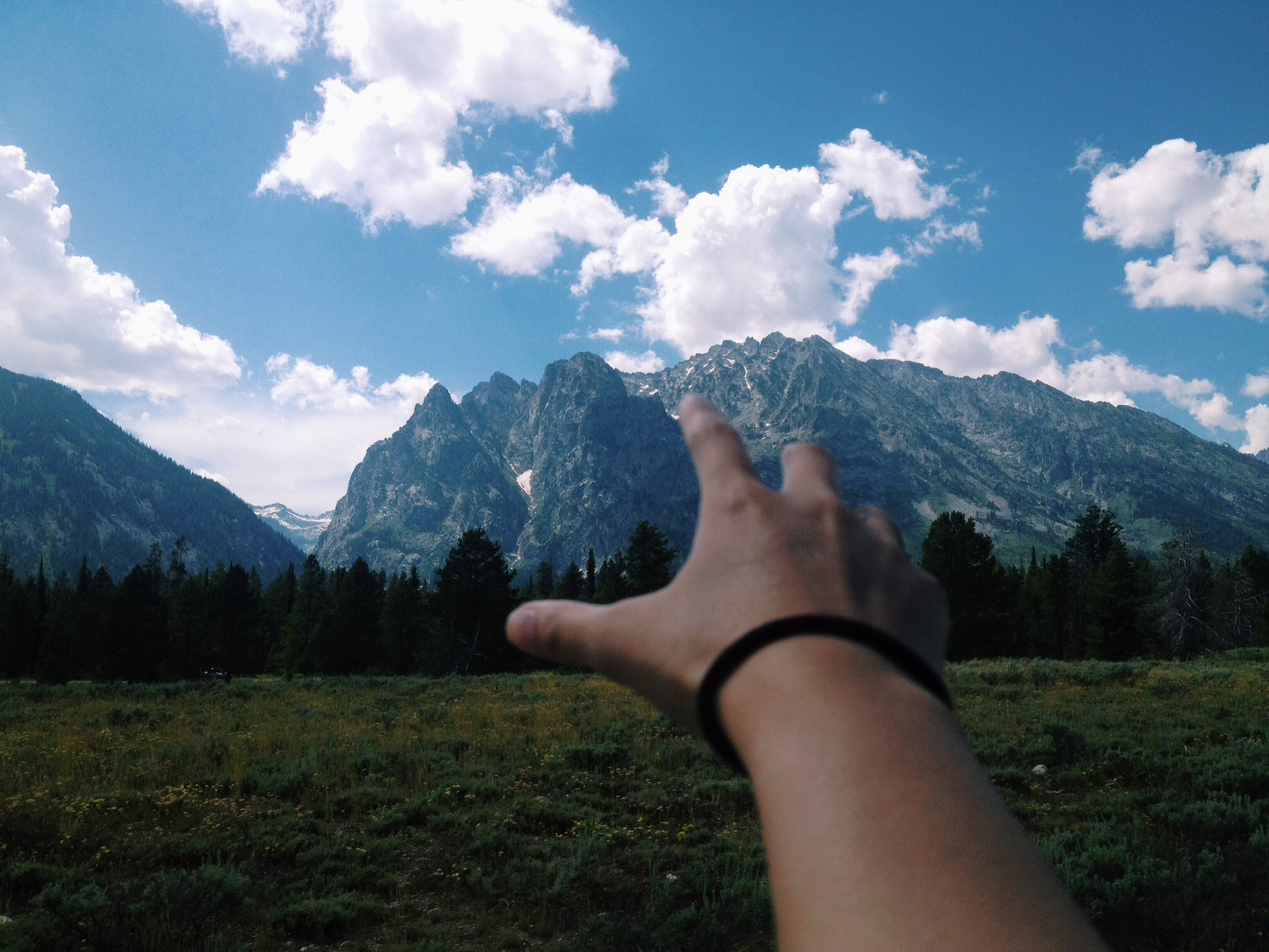
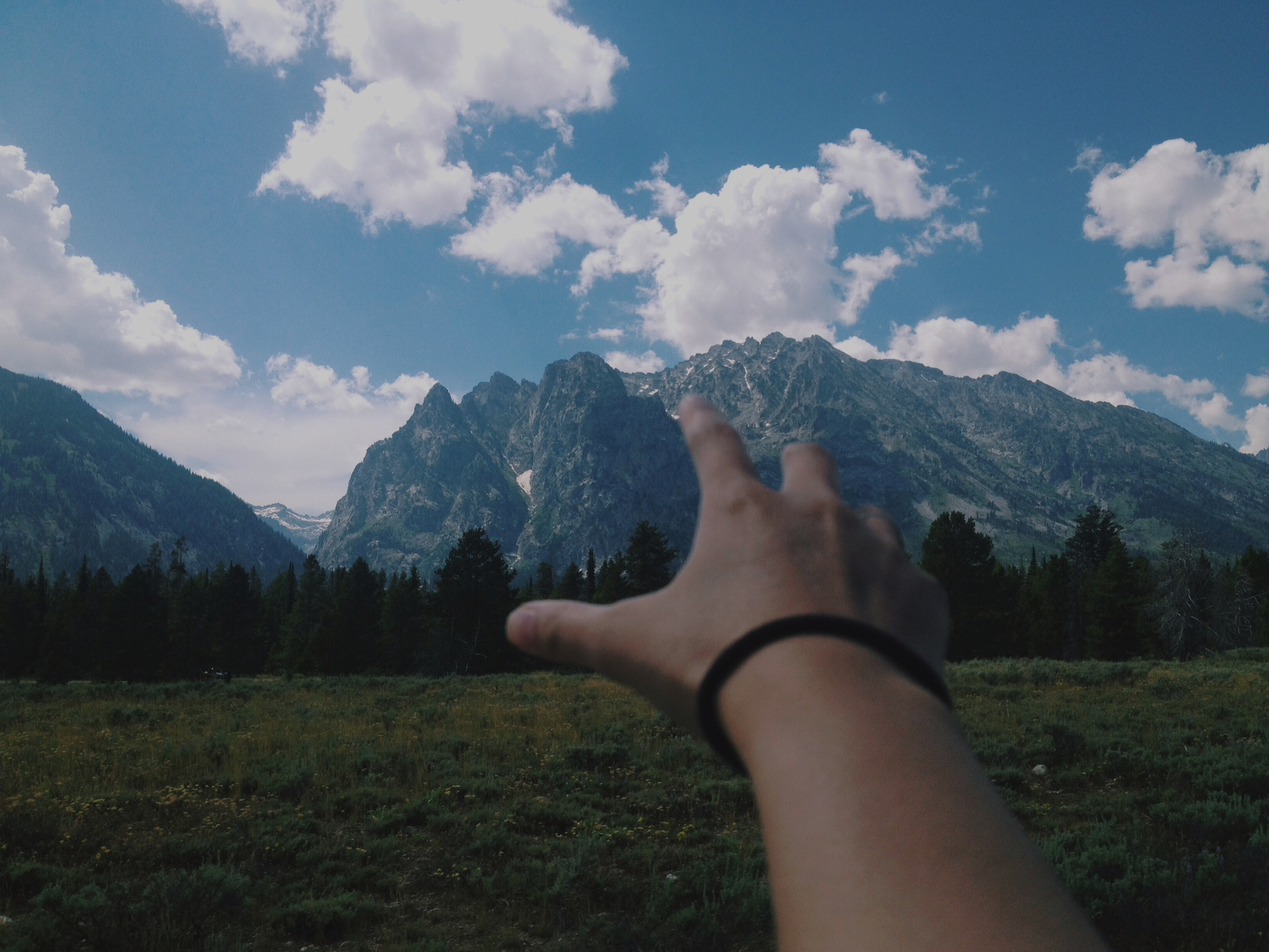
my skills section completed, scrollspy offset, new landing img, social media buttons

diff --git a/public/css/index.css b/public/css/index.css
@@ -1,5 +1,5 @@
-.top {
-  height: 100vh;
+.section1 {
+  height: 97vh;
   position: relative;
   width: 100%;
   min-height: 350px;
@@ -11,11 +11,49 @@
 .home-text {
   height: 100%;
   width: 100%;
-  opacity: 0.3;
-  background-color: #333333;
   display: flex;
   justify-content: center;
   align-items: center;
+  color: white;
+  font-size: 52px;
+  font-weight: bold; }
+
+.intro-text {
+  position: absolute;
+  bottom: 60%; }
+
+.section2 {
+  padding: 4rem 9rem 0 9rem !important;
+  height: 97vh;
+  position: relative;
+  width: 100%;
+  min-height: 350px;
+  font-size: 18px; }
+
+.fa {
+  padding: 20px;
+  font-size: 30px;
+  width: 50px;
+  text-align: center;
+  text-decoration: none; }
+
+.fa:hover {
+  opacity: 0.7; }
+
+.fa-linkedin {
+  background: #0077B5;
   color: white; }
+
+.fa-instagram {
+  background: #125688;
+  color: white; }
+
+.section3 {
+  padding: 3.5rem 7rem 0 5rem !important;
+  height: 97vh;
+  position: relative;
+  width: 100%;
+  min-height: 350px;
+  background-color: #DDDDDD; }
 
 /*# sourceMappingURL=index.css.map */

diff --git a/public/sass/index.scss b/public/sass/index.scss
@@ -1,5 +1,5 @@
-.top {
-  height: 100vh;
+.section1 {
+  height: 97vh;
   position: relative;
   width: 100%;
   min-height: 350px;
@@ -12,10 +12,57 @@
 .home-text {
   height: 100%;
   width: 100%;
-  opacity: 0.3;
-  background-color: #333333;
   display: flex;
   justify-content: center;
   align-items: center;
   color: white;
+  font-size: 52px;
+  font-weight: bold;
+}
+
+.intro-text {
+  position: absolute;
+  bottom: 60%;
+}
+
+.section2 {
+  padding: 4rem 9rem 0 9rem !important;
+  height: 97vh;
+  position: relative;
+  width: 100%;
+  min-height: 350px;
+  font-size: 18px;
+}
+
+.fa {
+    padding: 20px;
+    font-size: 30px;
+    width: 50px;
+    text-align: center;
+    text-decoration: none;
+}
+
+.fa:hover {
+    opacity: 0.7;
+}
+
+.fa-linkedin {
+    background: #0077B5;
+    color: white;
+}
+
+.fa-instagram {
+    background: #125688;
+    color: white;
+}
+
+
+.section3 {
+  padding: 3.5rem 7rem 0 5rem !important;
+  height: 97vh;
+  position: relative;
+  width: 100%;
+  min-height: 350px;
+  background-color: #DDDDDD;
+  
 }

diff --git a/routes/index.js b/routes/index.js
@@ -3,7 +3,7 @@ var router = express.Router();
 
 /* GET home page. */
 router.get('/', function(req, res, next) {
-  res.render('index', { title: 'thaos site'});
+  res.render('index', { title: 'Thao Luu | Front-End Web Developer'});
 });
 
 router.get('/users', function(req, res, next) {

diff --git a/public/css/style.css b/public/css/style.css
@@ -1,4 +1,4 @@
 body {
-  font: 14px "Lucida Grande", Helvetica, Arial, sans-serif; }
+  font-family: 'Raleway', sans-serif; }
 
 /*# sourceMappingURL=style.css.map */

diff --git a/public/sass/style.scss b/public/sass/style.scss
@@ -1,3 +1,3 @@
 body {
-  font: 14px "Lucida Grande", Helvetica, Arial, sans-serif;
+  font-family: 'Raleway', sans-serif;
 }
